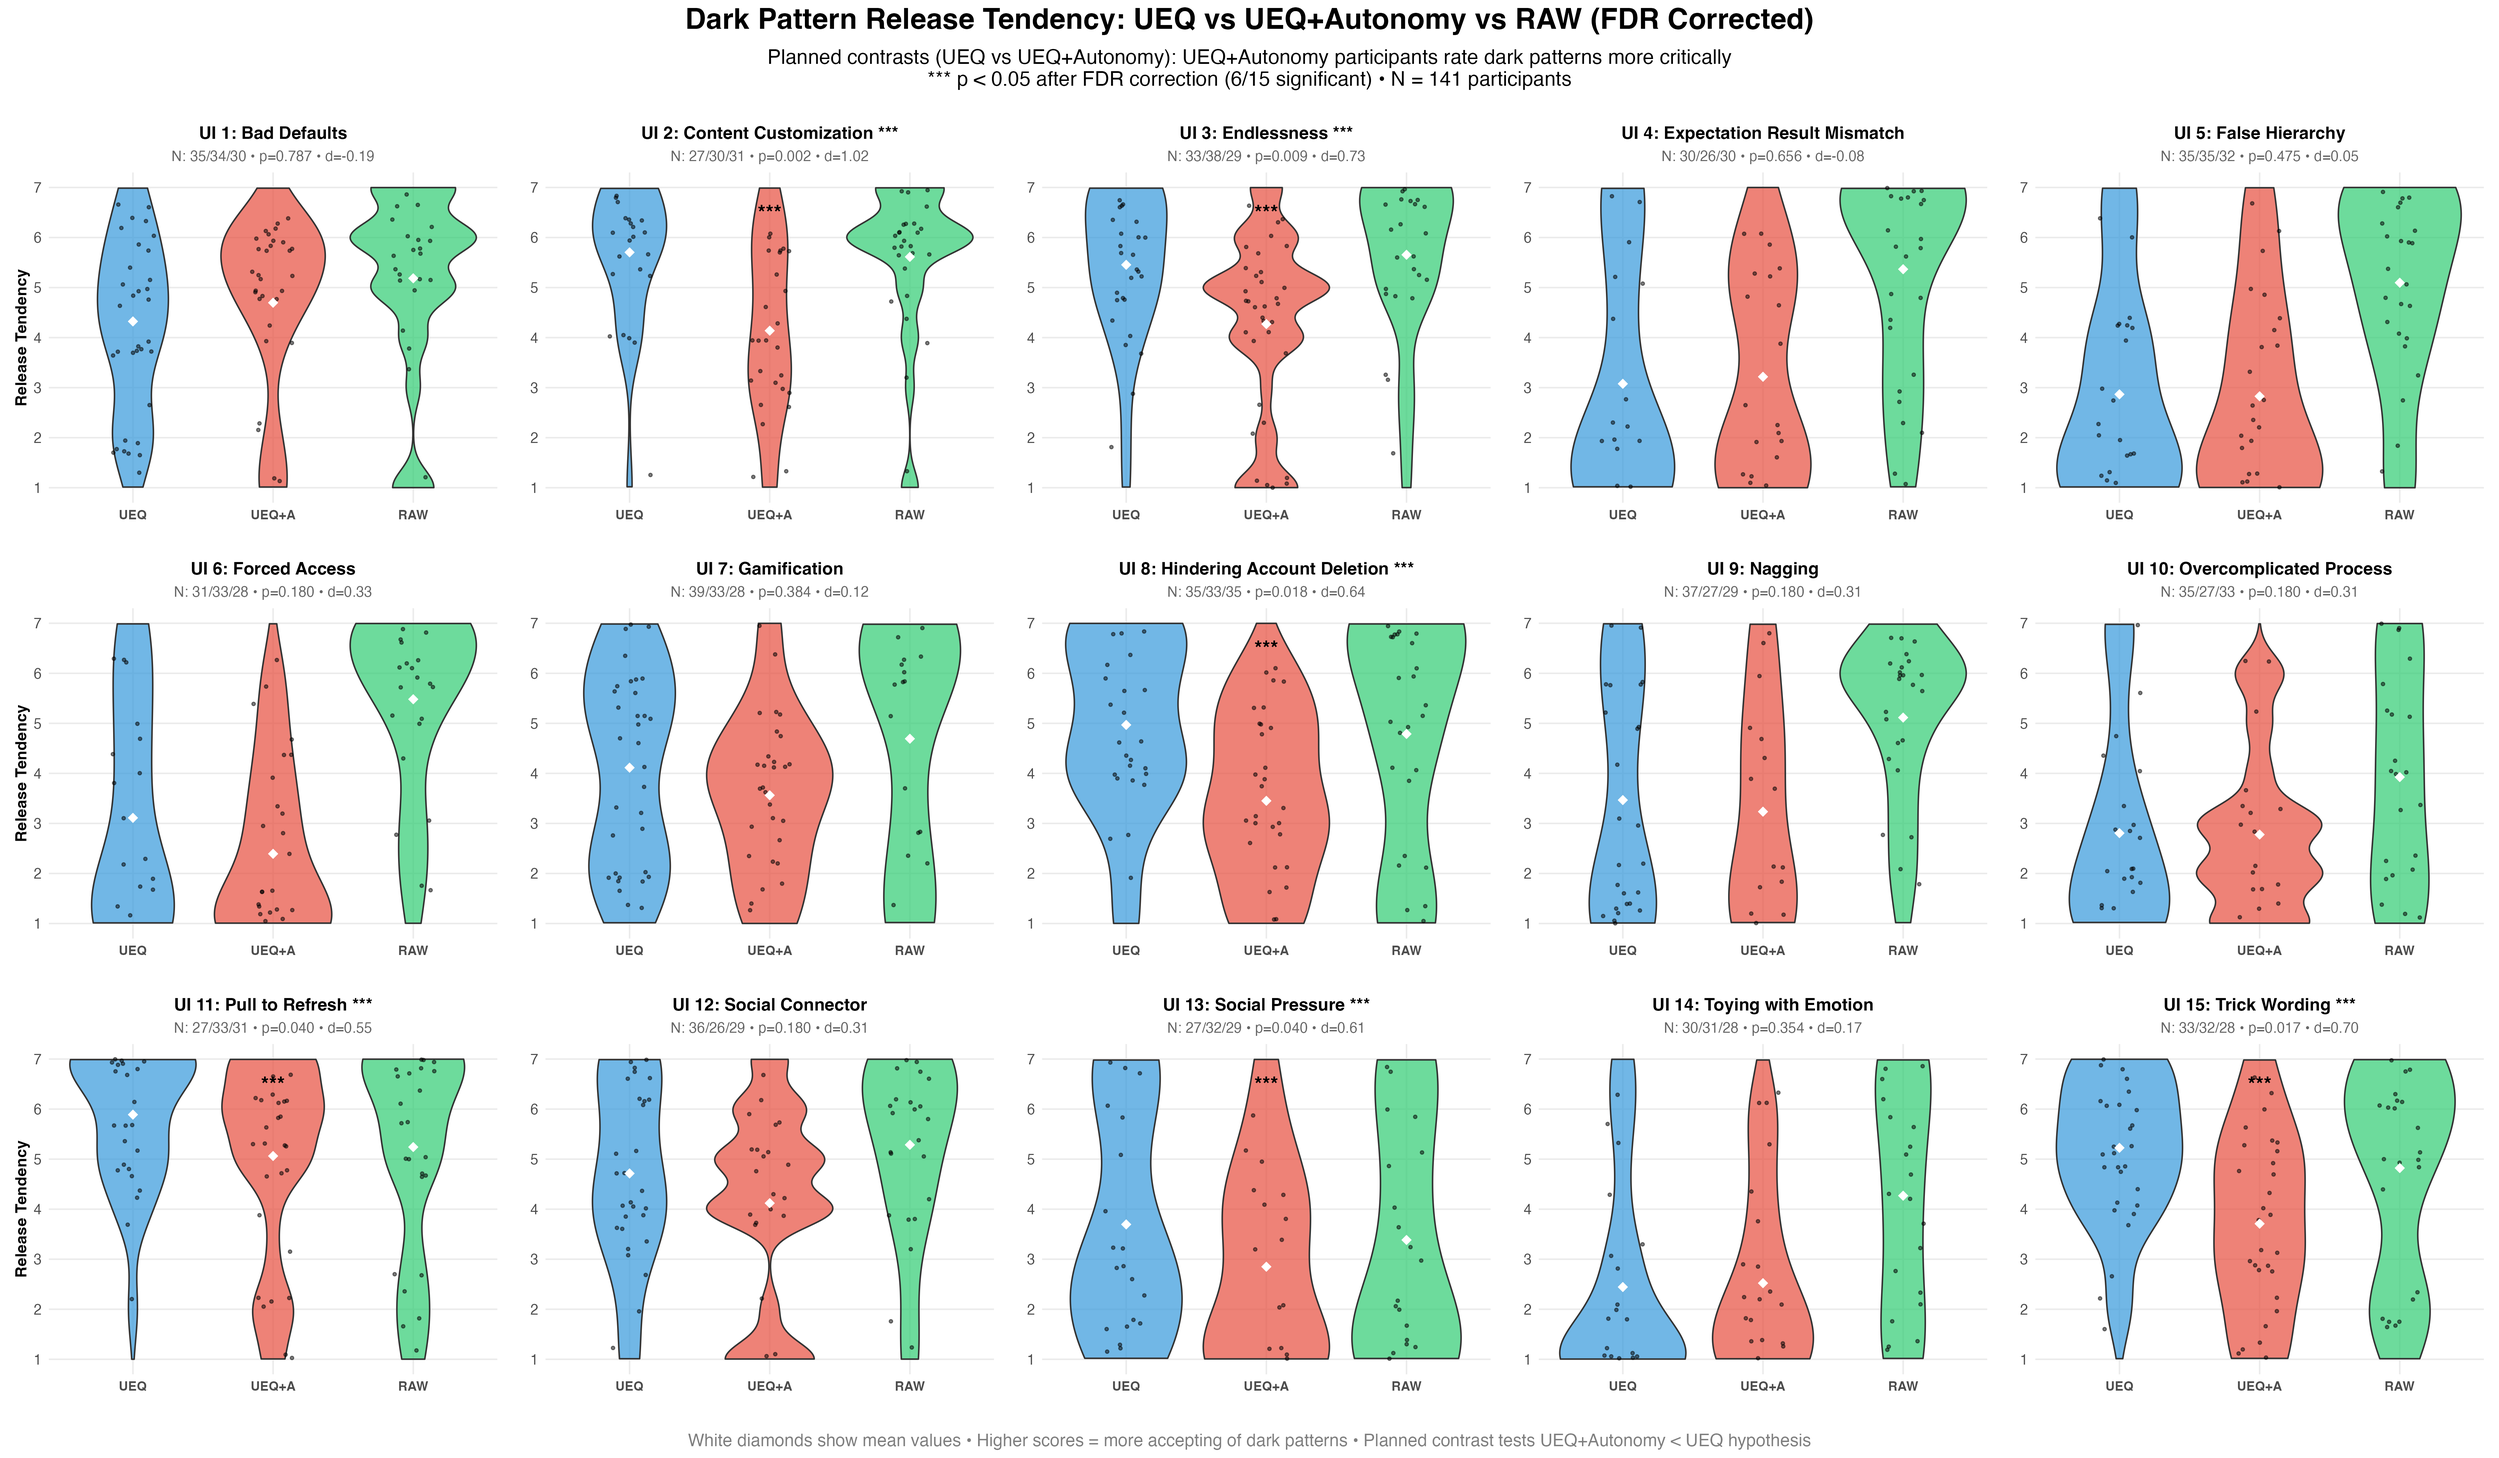
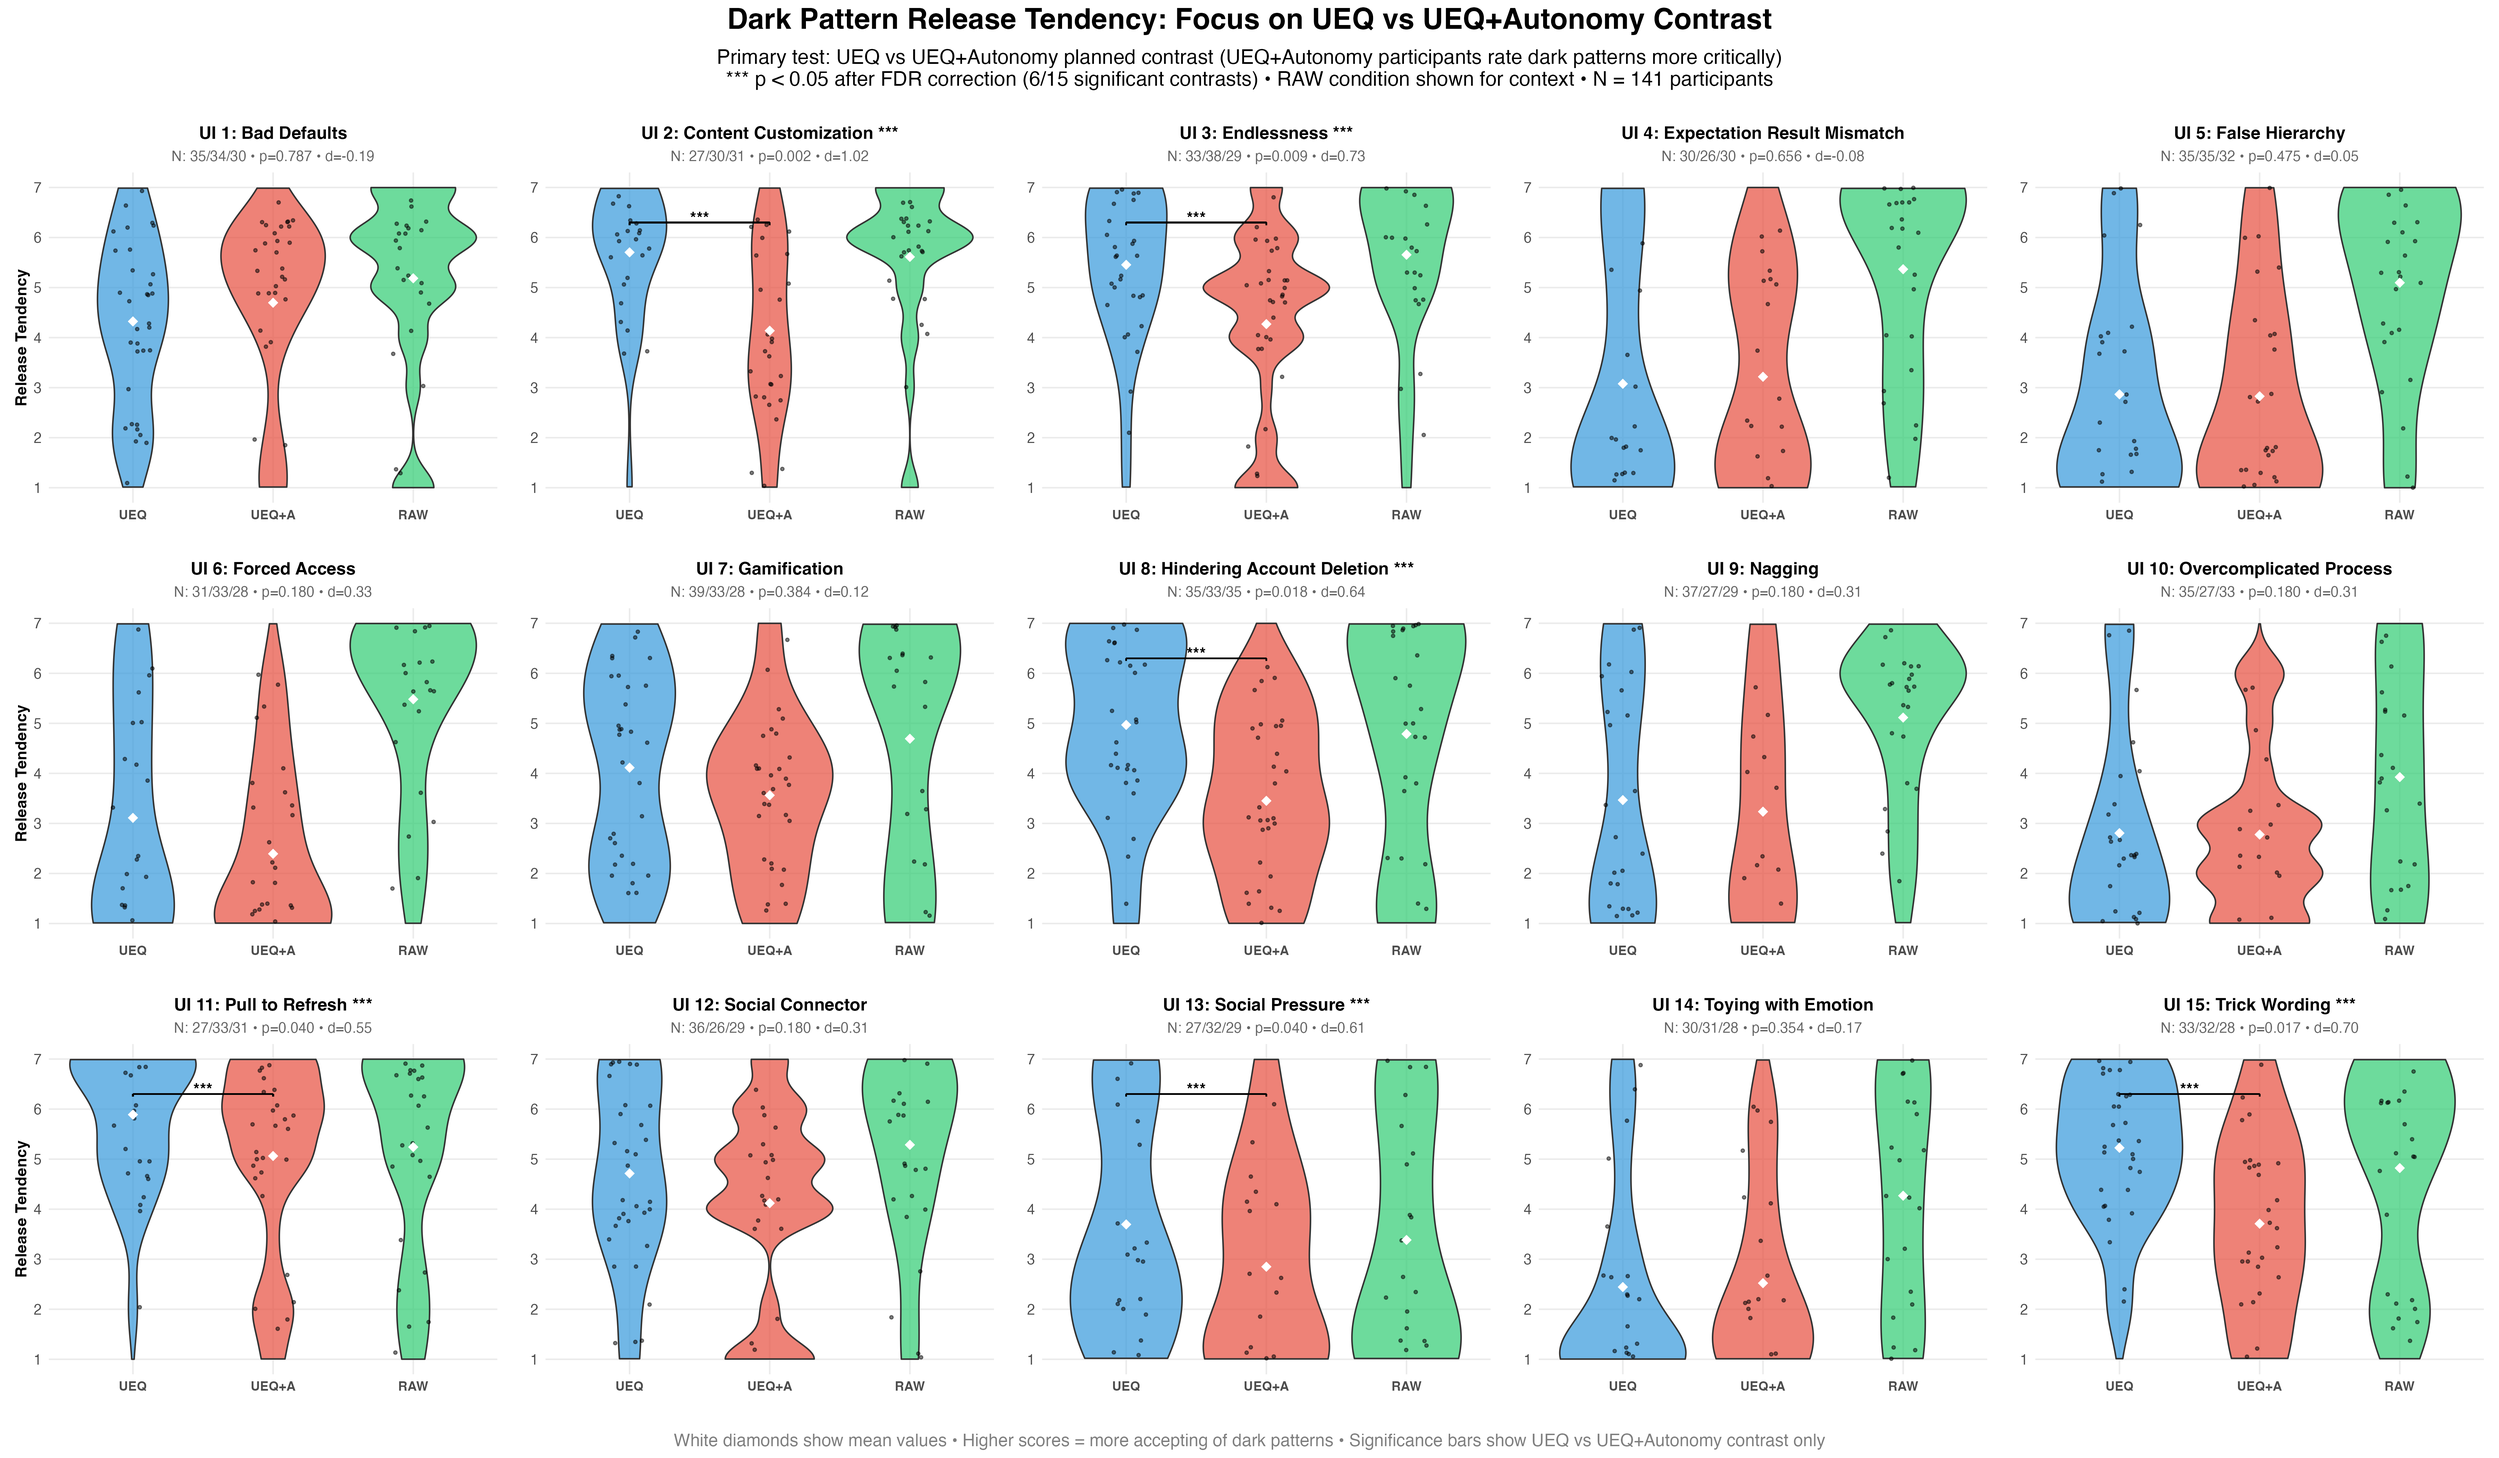
Better rendering

Changed region(s): [[0.2812, 0.0, 0.7188, 0.0624], [0.2812, 0.9669, 0.7188, 0.9981]]

diff --git a/UI-Eval-Survey-Data/analysis_v2/ANALYSIS_INTERPRETATION_GUIDE.md b/UI-Eval-Survey-Data/analysis_v2/ANALYSIS_INTERPRETATION_GUIDE.md
@@ -1,0 +1,73 @@
+# Three-Condition Analysis Summary: Understanding the Different Statistical Tests
+
+## Overview
+We have **three types of participants** and **two main statistical approaches**:
+
+### Participant Groups:
+1. **UEQ**: Participants who evaluated interfaces using standard UEQ (usability questionnaire)
+2. **UEQ+Autonomy**: Participants who evaluated using UEQ + autonomy-specific questions  
+3. **RAW**: Participants who saw interfaces without any evaluation framework (raw ratings)
+
+## Statistical Approaches Used
+
+### 1. Omnibus ANOVA (Three-way comparison)
+- **What it tests**: Whether there are ANY differences among the three groups
+- **File**: `plots/three_condition_rejection_comparison.png`, `plots/three_condition_tendency_comparison.png`
+- **Statistical approach**: F-test comparing all three groups simultaneously
+- **Interpretation**: Two-tailed test asking "Are these three groups different in some way?"
+- **Results**: 9 interfaces significant for tendency differences
+
+### 2. Planned Contrast (UEQ vs UEQ+Autonomy)
+- **What it tests**: Specific directional hypothesis that UEQ+Autonomy < UEQ
+- **File**: `plots/three_condition_tendency_violin_fdr_corrected.png`
+- **Statistical approach**: Focused t-test between just UEQ and UEQ+Autonomy
+- **Interpretation**: One-tailed test asking "Do UEQ+Autonomy participants rate dark patterns more critically?"
+- **Results**: 6 interfaces significant for UEQ > UEQ+Autonomy
+
+## Key Findings & Interpretation
+
+### Pattern in the Data:
+Looking at mean tendency scores, we consistently see:
+**UEQ+Autonomy < RAW ≤ UEQ**
+
+### What This Means:
+
+1. **UEQ+Autonomy participants are most critical**: They consistently give the lowest acceptance scores to dark patterns
+   - This supports the hypothesis that autonomy-focused evaluation makes people more aware of manipulative design
+
+2. **UEQ participants are most accepting**: They give the highest scores
+   - Standard usability evaluation may not sensitize people to ethical issues
+
+3. **RAW participants are in the middle**: They often score between the two evaluation conditions
+   - Without any evaluation framework, people have moderate sensitivity to dark patterns
+   - This suggests that evaluation frameworks do influence perception
+
+### Significant Interfaces (UEQ > UEQ+Autonomy):
+1. **Content Customization** (d=1.02) - Large effect
+2. **Endlessness** (d=0.73) - Medium-large effect  
+3. **Trick Wording** (d=0.70) - Medium-large effect
+4. **Hindering Account Deletion** (d=0.64) - Medium effect
+5. **Pull to Refresh** (d=0.55) - Medium effect
+6. **Social Pressure** (d=0.61) - Medium effect
+
+## Methodological Notes
+
+### Why Use Planned Contrasts?
+- We had a specific directional hypothesis about UEQ vs UEQ+Autonomy
+- More powerful than omnibus ANOVA for testing specific predictions
+- Appropriate for one-tailed testing given theoretical justification
+
+### Role of RAW Condition:
+- **Not the primary comparison** - serves as important context
+- Shows that evaluation frameworks matter (both UEQ conditions differ from RAW)
+- Helps establish that effects aren't just due to any evaluation vs no evaluation
+
+### Effect Sizes:
+- Medium to large Cohen's d values (0.55-1.02) indicate practically meaningful differences
+- These aren't just statistical artifacts but represent substantial differences in perception
+
+## Implications:
+1. **Autonomy-focused evaluation** makes people more sensitive to dark patterns
+2. **Standard usability evaluation** may inadvertently increase tolerance for dark patterns
+3. **Evaluation frameworks shape perception** - the act of evaluation itself influences how people see interfaces
+4. **Six specific dark patterns** show this effect most strongly, suggesting some manipulative designs are more influenced by evaluation mindset than others
